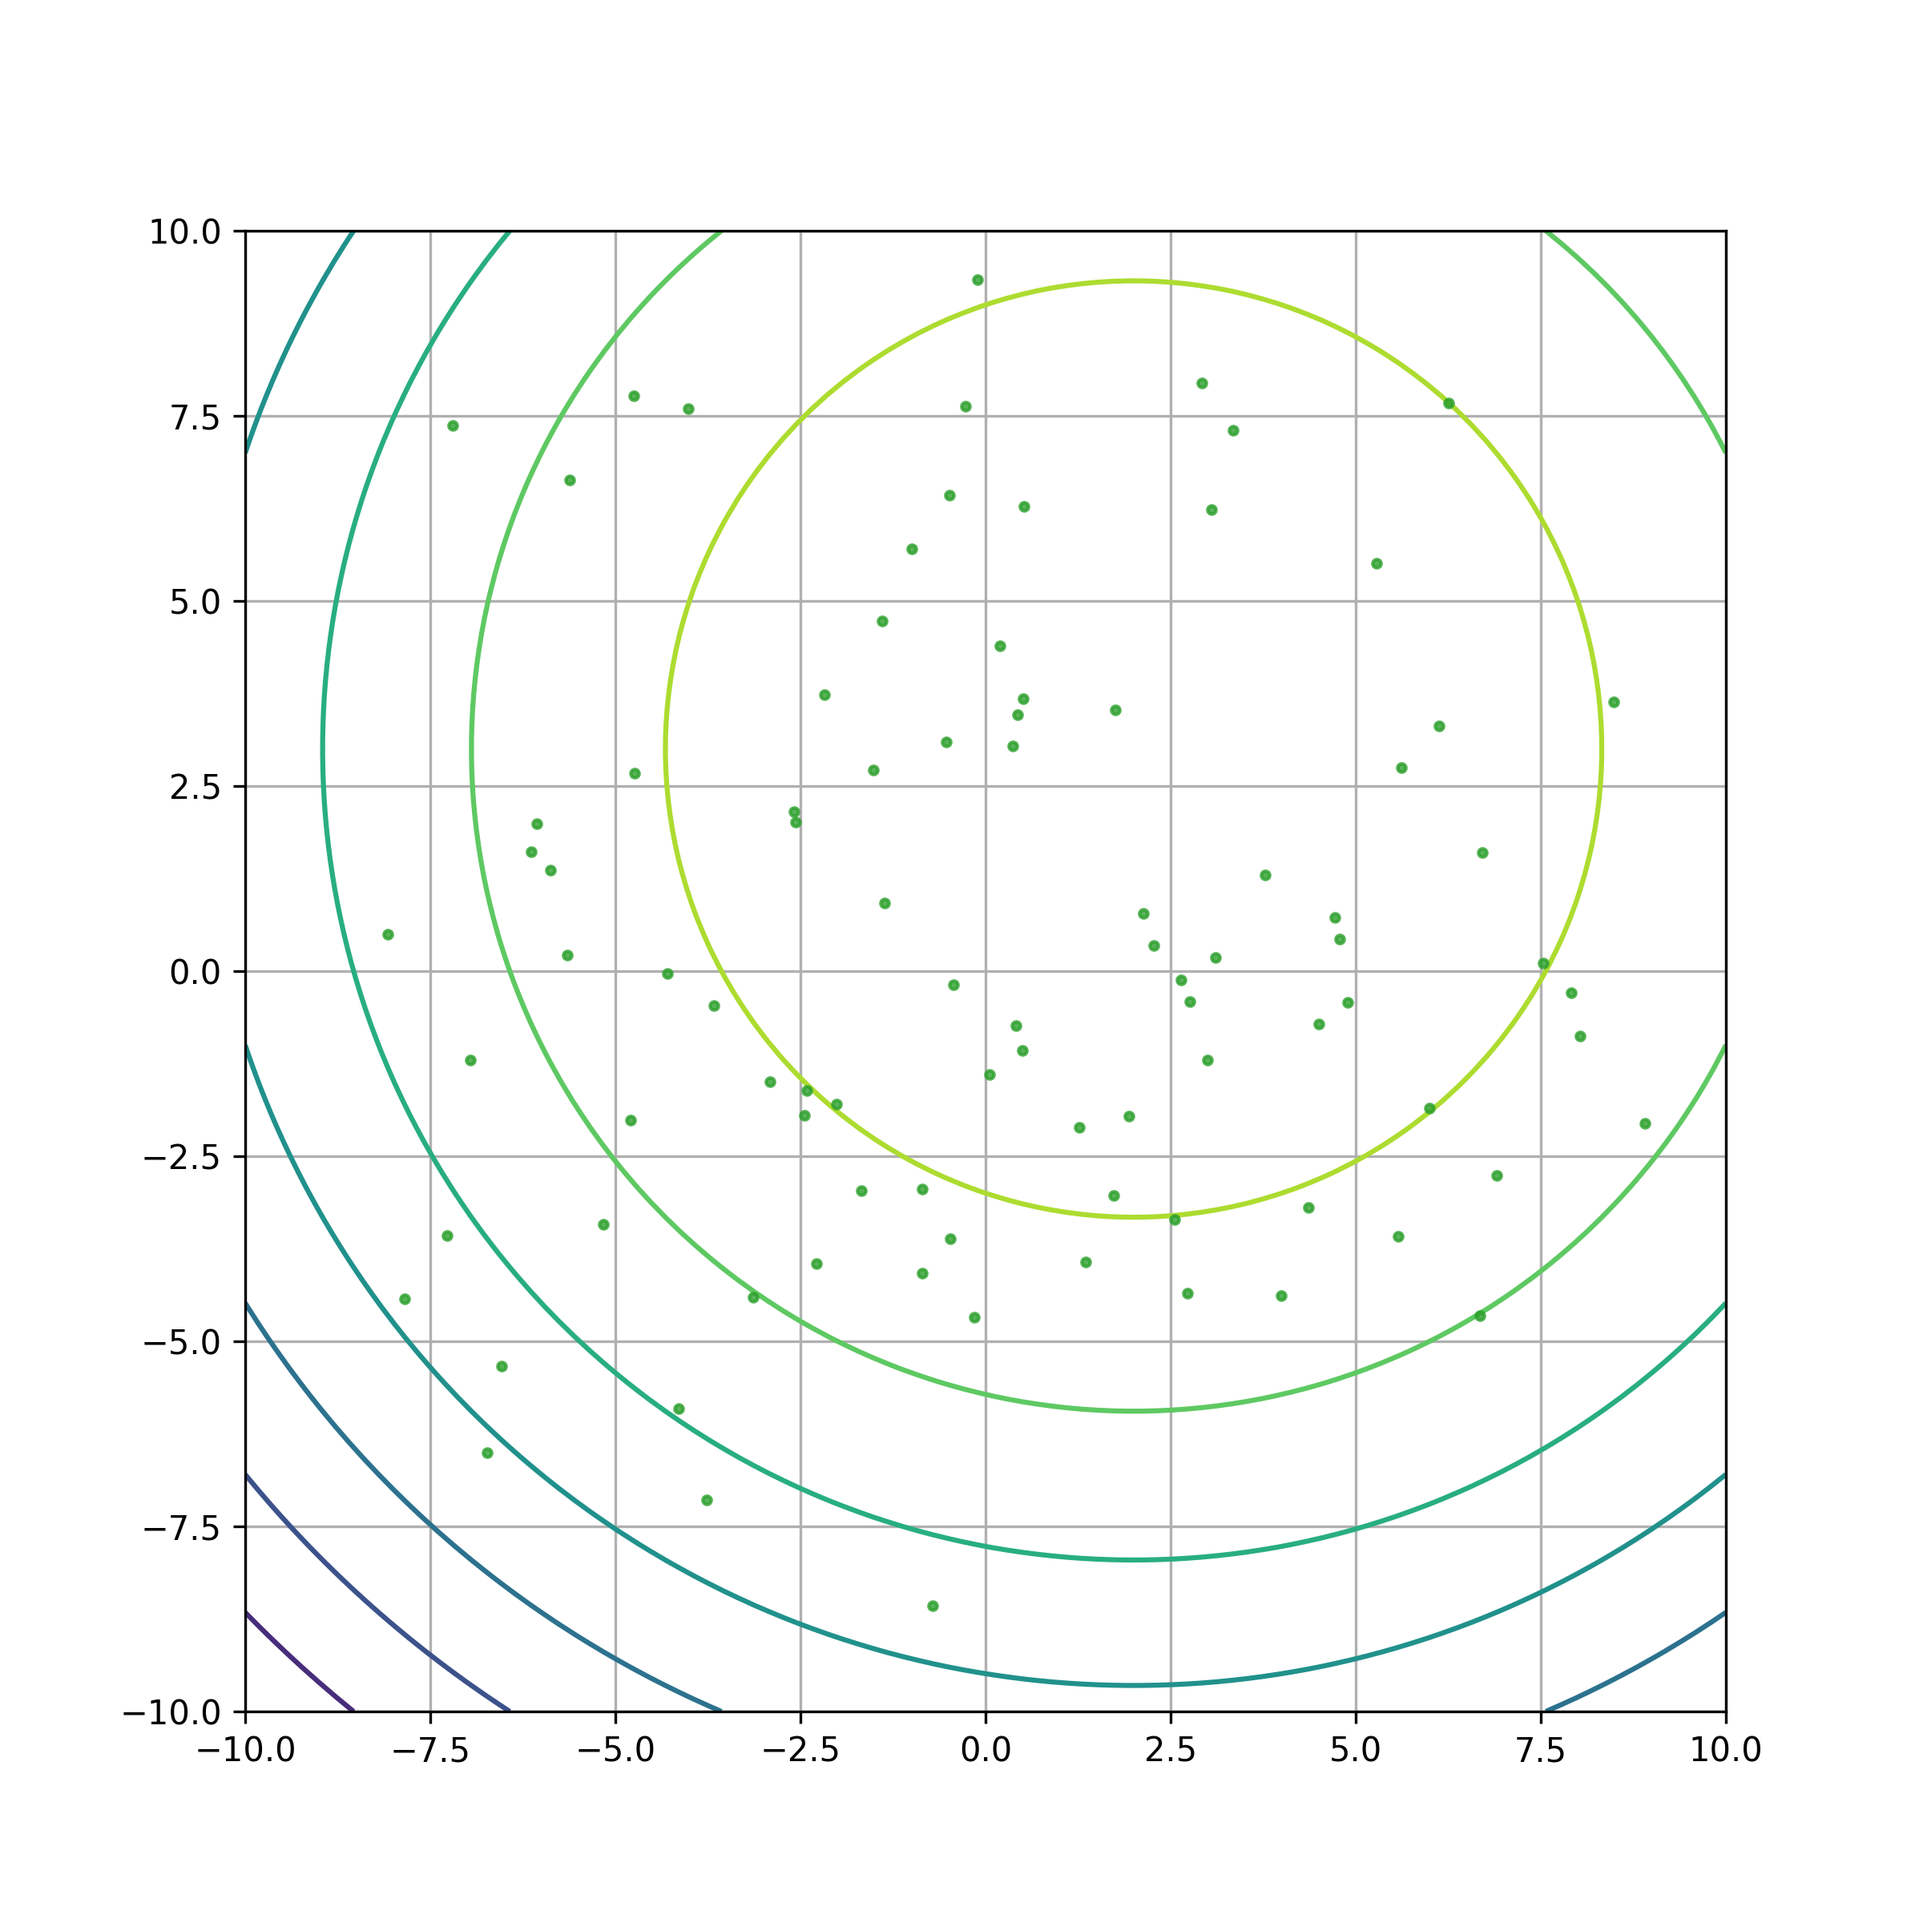
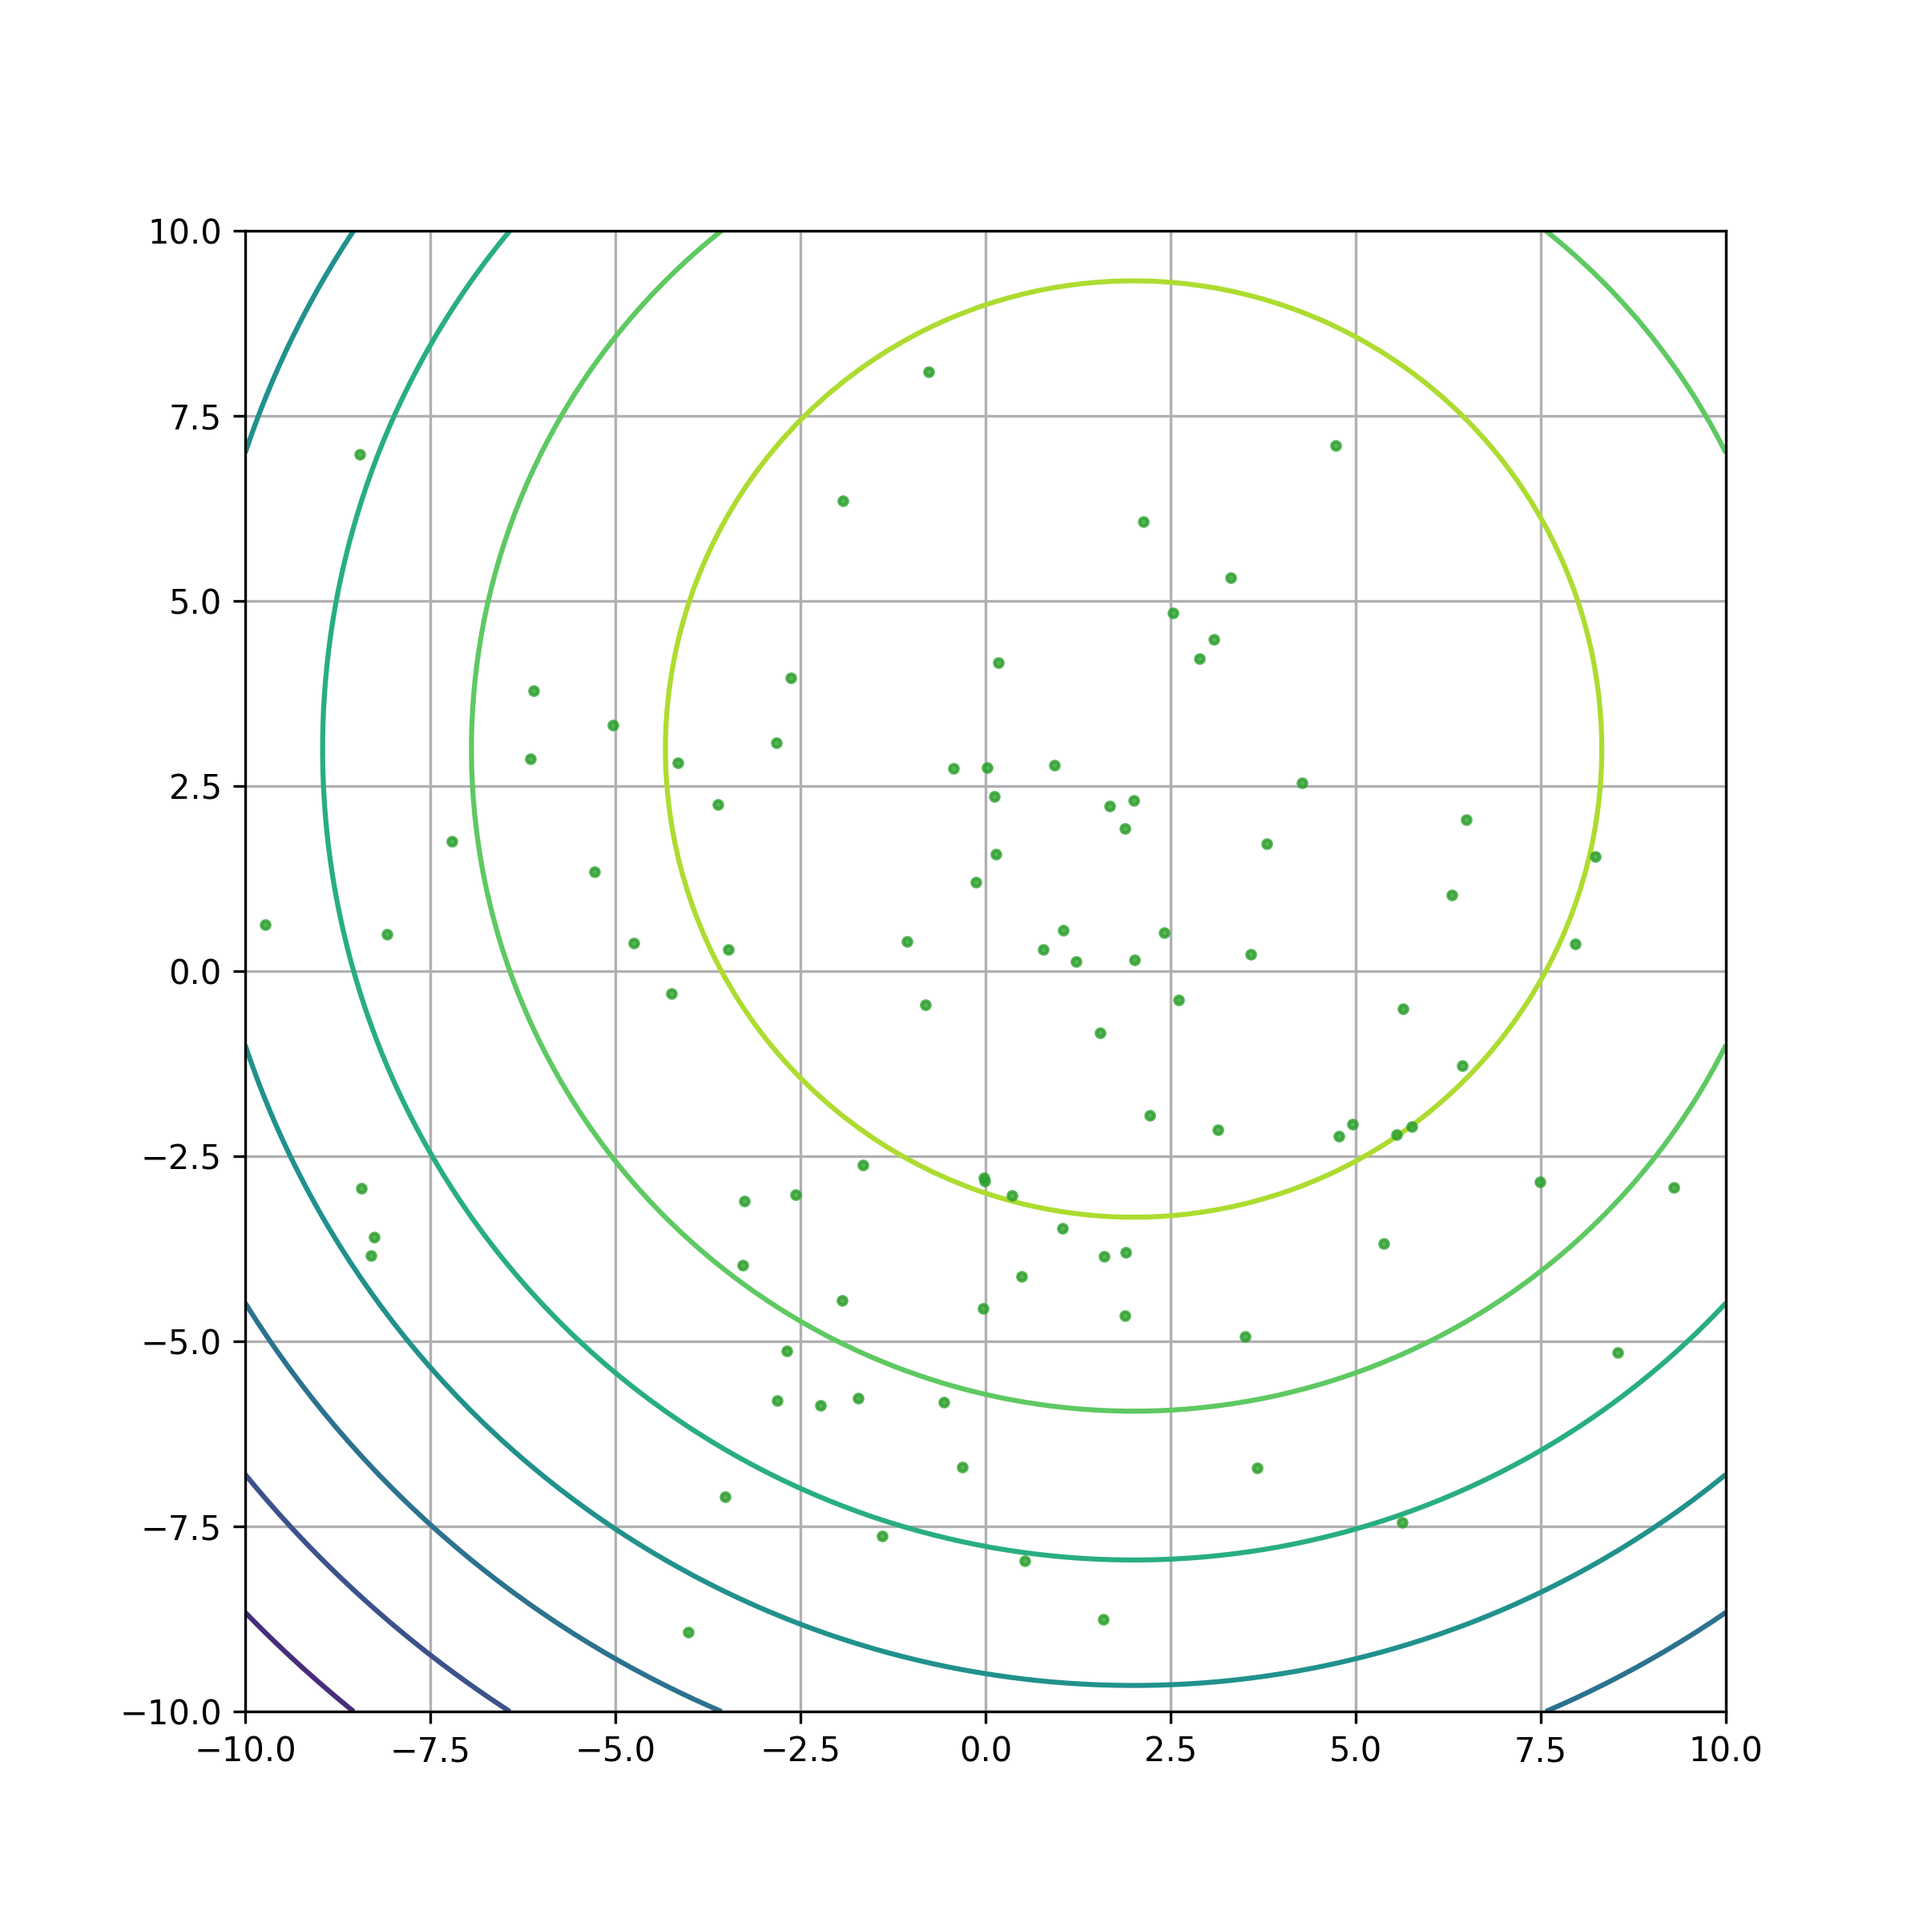
svgd

diff --git a/main.py b/main.py
@@ -11,14 +11,10 @@ from draw import plot_2d_contour
 from svgd import SVGD
 
 # Problem statement:
-# \min_{x \in \mathbb{R}^2} f(x) = (x_1 - 2)^2 + (x_2 - 3)^2
-# text{s.t} \quad g(x) = (x_1 - 2)^2 - x_2 - 1 = 0
+# \min_{x \in \mathbb{R}^2} f(x) = (\sqrt{\frac{x_1^2}{3} + \frac{x_2^2}{2}} - 3)^2
 
 def log_p(particles):
-    return - (particles[:, 0] - 2) ** 2 - (particles[:, 1] - 3) ** 2
-
-def g(x):
-    return (x[:,0] - 2) ** 2 - x[:,1] - 1
+    return - ((particles[:, 0] ** 2 / 3 + particles[:, 1] ** 2 / 2) ** 1/2 - 3) ** 2
 
 def best_particle(particles):
     """
@@ -150,8 +146,9 @@ def main_show(x0, sampler, max_iter):
     best = best_particle(x)
     best_particle_time = time.time() - start
     print(f'best particles: ({best[0]:.7f}, {best[1]:.7f}) \t time: {best_particle_time:.7f}')
+    print(f'f(x): { - log_p(best[None, :])[0]}')
 
-    ani = ArtistAnimation(fig, artists, interval= 100, repeat=True)
+    ani = ArtistAnimation(fig, artists, interval= 10, repeat=True)
     plt.show()
 
 if __name__ == "__main__":
@@ -160,16 +157,16 @@ if __name__ == "__main__":
     # torch.manual_seed(seed)
 
     dim = 2
-    NUM_PARTICLES = 100
+    NUM_PARTICLES = 200
 
     x0 = torch.zeros(NUM_PARTICLES, dim, requires_grad=False)
     x0[:,0] = torch.randn(NUM_PARTICLES, requires_grad=False) * 5
     x0[:,1] = torch.randn(NUM_PARTICLES, requires_grad=False) * 5
 
     sampler = SVGD(log_p, stepsize=0.5, alpha = 100)
-    max_iter = 300
+    max_iter = 500
 
-    save = True
+    save = False
     if save:
         main_save(x0, sampler, max_iter)
     else:

diff --git a/svgd.py b/svgd.py
@@ -44,7 +44,7 @@ class SVGD(nn.Module):
 
         svgd_gradient = torch.zeros_like(particles, device=particles.device)
 
-        term1 = torch.einsum("ij,jd->id", kernel_matrix, log_prob_grad)
+        term1 = torch.einsum("ij,ik->jk", kernel_matrix, log_prob_grad)
         term2 = kernel_matrix_grad.sum(dim=1)
 
         svgd_gradient = (term1 + term2) / n
